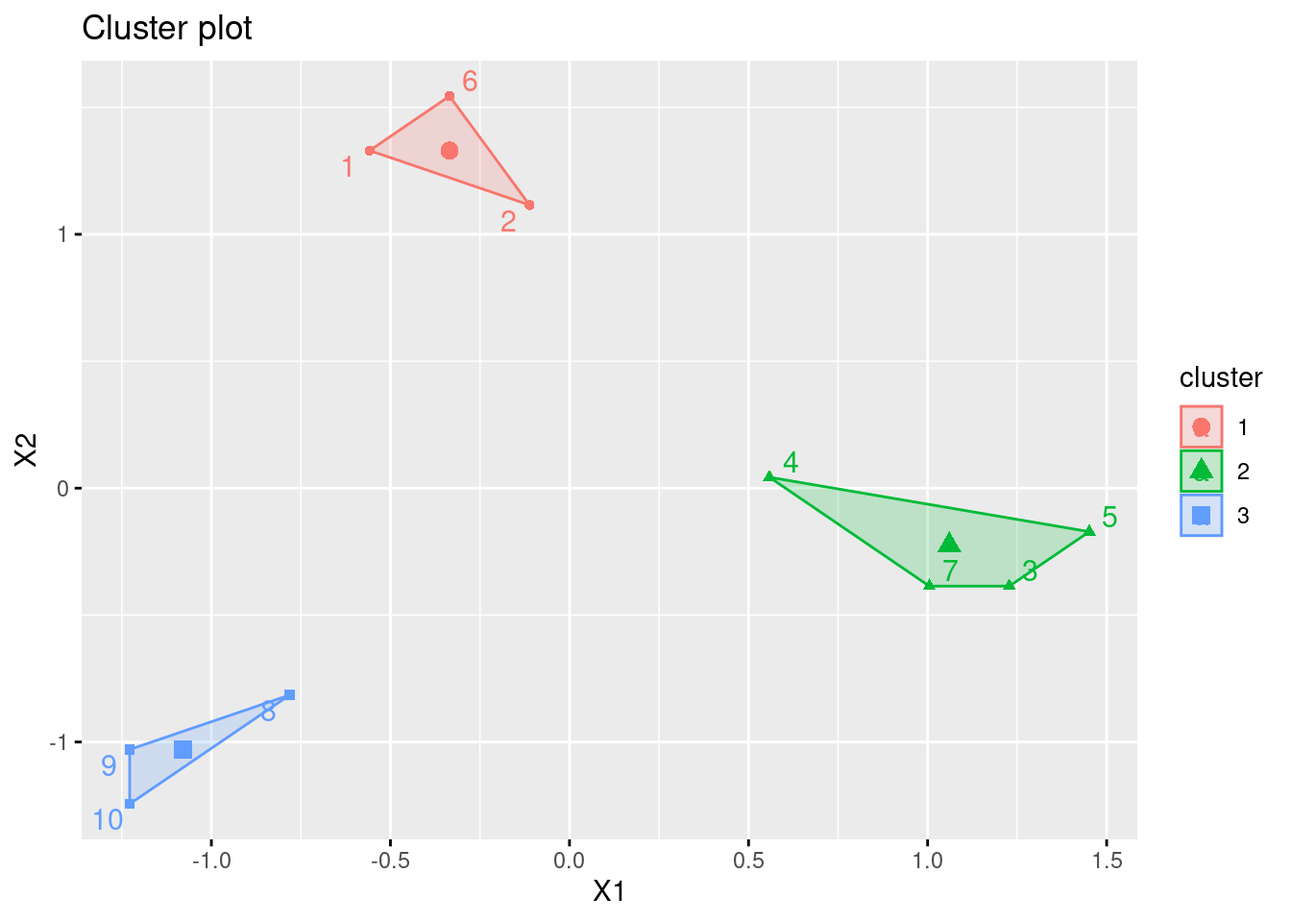
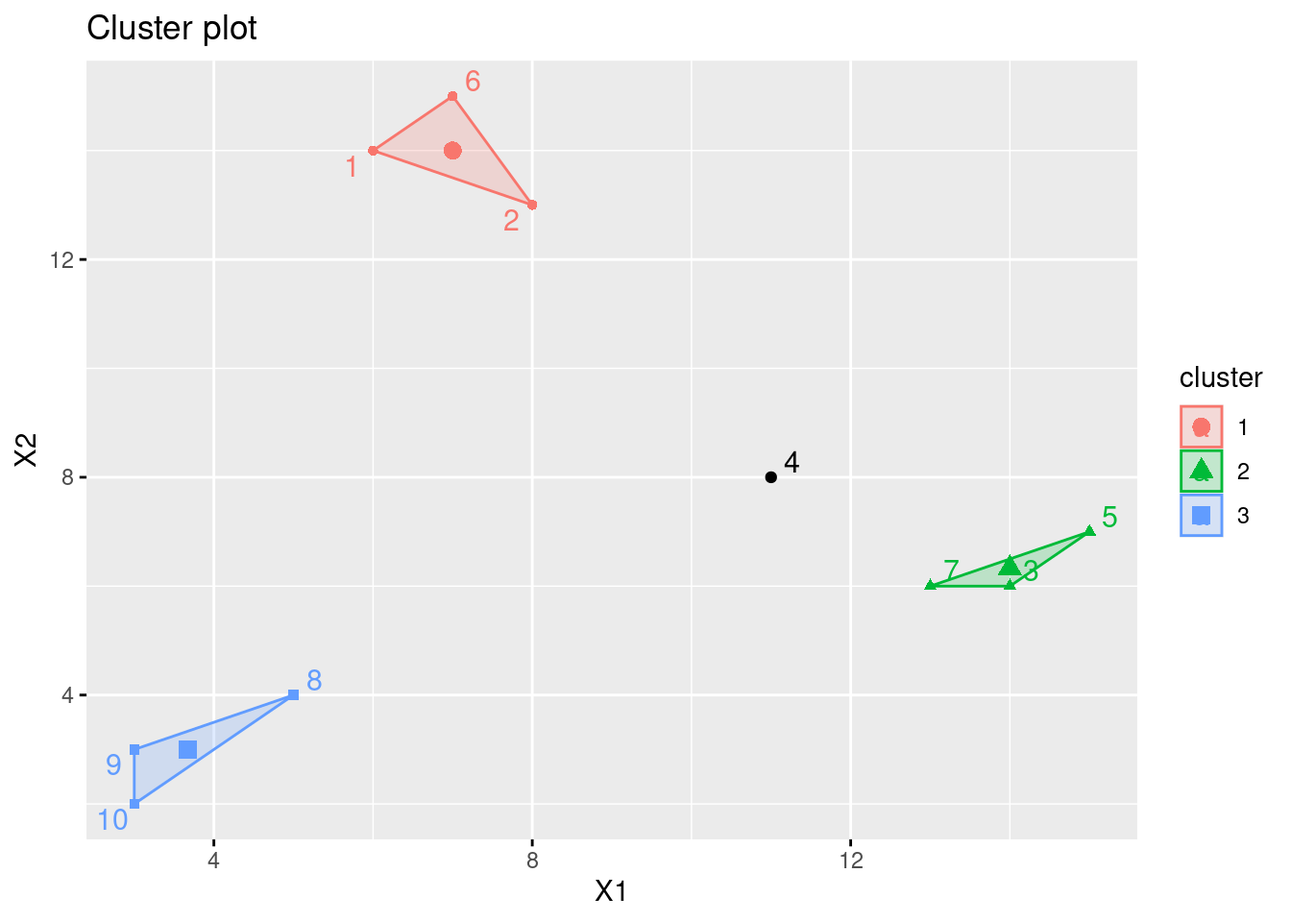
Built site for gh-pages

diff --git a/chapters/ch13_cluster_dbscan.html b/chapters/ch13_cluster_dbscan.html
@@ -192,62 +192,45 @@ pre > code.sourceCode > span > a:first-child::before { text-decoration: underlin
 
 </header>
 
-<p>데이터 읽기</p>
-<div class="cell">
-<div class="sourceCode cell-code" id="cb1"><pre class="sourceCode r code-with-copy"><code class="sourceCode r"><span id="cb1-1"><a href="#cb1-1" aria-hidden="true" tabindex="-1"></a>dat1 <span class="ot">&lt;-</span> <span class="fu">read.csv</span>(<span class="st">"data/ch12_dat1.csv"</span>)</span>
-<span id="cb1-2"><a href="#cb1-2" aria-hidden="true" tabindex="-1"></a>dat2 <span class="ot">&lt;-</span> dat1[, <span class="sc">-</span><span class="dv">1</span>]</span></code><button title="Copy to Clipboard" class="code-copy-button"><i class="bi"></i></button></pre></div>
-</div>
-<p>유클리디안 거리</p>
-<div class="cell">
-<div class="sourceCode cell-code" id="cb2"><pre class="sourceCode r code-with-copy"><code class="sourceCode r"><span id="cb2-1"><a href="#cb2-1" aria-hidden="true" tabindex="-1"></a>D1 <span class="ot">&lt;-</span> <span class="fu">dist</span>(dat2)</span>
-<span id="cb2-2"><a href="#cb2-2" aria-hidden="true" tabindex="-1"></a>D1 <span class="ot">&lt;-</span> <span class="fu">round</span>(D1, <span class="dv">2</span>)</span>
-<span id="cb2-3"><a href="#cb2-3" aria-hidden="true" tabindex="-1"></a>D1</span></code><button title="Copy to Clipboard" class="code-copy-button"><i class="bi"></i></button></pre></div>
-<div class="cell-output cell-output-stdout">
-<pre><code>       1     2     3     4     5     6     7     8     9
-2   2.24                                                
-3  11.31  9.22                                          
-4   7.81  5.83  3.61                                    
-5  11.40  9.22  1.41  4.12                              
-6   1.41  2.24 11.40  8.06 11.31                        
-7  10.63  8.60  1.00  2.83  2.24 10.82                  
-8  10.05  9.49  9.22  7.21 10.44 11.18  8.25            
-9  11.40 11.18 11.40  9.43 12.65 12.65 10.44  2.24      
-10 12.37 12.08 11.70 10.00 13.00 13.60 10.77  2.83  1.00</code></pre>
-</div>
-</div>
 <section id="예-13.1" class="level2">
 <h2 class="anchored" data-anchor-id="예-13.1">(예 13.1)</h2>
-<p>군집 수 결정</p>
+<section id="패키지-로드" class="level4">
+<h4 class="anchored" data-anchor-id="패키지-로드">패키지 로드</h4>
 <div class="cell">
-<div class="sourceCode cell-code" id="cb4"><pre class="sourceCode r code-with-copy"><code class="sourceCode r"><span id="cb4-1"><a href="#cb4-1" aria-hidden="true" tabindex="-1"></a><span class="fu">library</span>(factoextra)</span></code><button title="Copy to Clipboard" class="code-copy-button"><i class="bi"></i></button></pre></div>
+<div class="sourceCode cell-code" id="cb1"><pre class="sourceCode r code-with-copy"><code class="sourceCode r"><span id="cb1-1"><a href="#cb1-1" aria-hidden="true" tabindex="-1"></a><span class="fu">library</span>(factoextra)</span></code><button title="Copy to Clipboard" class="code-copy-button"><i class="bi"></i></button></pre></div>
 <div class="cell-output cell-output-stderr">
 <pre><code>Loading required package: ggplot2</code></pre>
 </div>
 <div class="cell-output cell-output-stderr">
 <pre><code>Welcome! Want to learn more? See two factoextra-related books at https://goo.gl/ve3WBa</code></pre>
 </div>
-<div class="sourceCode cell-code" id="cb7"><pre class="sourceCode r code-with-copy"><code class="sourceCode r"><span id="cb7-1"><a href="#cb7-1" aria-hidden="true" tabindex="-1"></a><span class="co"># may use scale data or raw data for the optimal k</span></span>
-<span id="cb7-2"><a href="#cb7-2" aria-hidden="true" tabindex="-1"></a>s_dat2 <span class="ot">&lt;-</span> <span class="fu">scale</span>(dat2)</span>
-<span id="cb7-3"><a href="#cb7-3" aria-hidden="true" tabindex="-1"></a></span>
-<span id="cb7-4"><a href="#cb7-4" aria-hidden="true" tabindex="-1"></a><span class="fu">fviz_nbclust</span>(s_dat2, kmeans, <span class="at">method =</span> <span class="st">"wss"</span>, <span class="at">k.max =</span> <span class="dv">5</span>) <span class="sc">+</span> </span>
-<span id="cb7-5"><a href="#cb7-5" aria-hidden="true" tabindex="-1"></a>  <span class="fu">geom_vline</span>(<span class="at">xintercept =</span> <span class="dv">3</span>, <span class="at">linetype =</span> <span class="dv">2</span>)</span></code><button title="Copy to Clipboard" class="code-copy-button"><i class="bi"></i></button></pre></div>
+</div>
+</section>
+<section id="데이터-로드" class="level4">
+<h4 class="anchored" data-anchor-id="데이터-로드">데이터 로드</h4>
+<div class="cell">
+<div class="sourceCode cell-code" id="cb4"><pre class="sourceCode r code-with-copy"><code class="sourceCode r"><span id="cb4-1"><a href="#cb4-1" aria-hidden="true" tabindex="-1"></a>dat1 <span class="ot">&lt;-</span> <span class="fu">read.csv</span>(<span class="st">"data/ch12_dat1.csv"</span>)</span>
+<span id="cb4-2"><a href="#cb4-2" aria-hidden="true" tabindex="-1"></a>dat2 <span class="ot">&lt;-</span> dat1[, <span class="sc">-</span><span class="dv">1</span>]</span></code><button title="Copy to Clipboard" class="code-copy-button"><i class="bi"></i></button></pre></div>
+</div>
+</section>
+<section id="군집-수-결정" class="level4">
+<h4 class="anchored" data-anchor-id="군집-수-결정">군집 수 결정</h4>
+<div class="cell">
+<div class="sourceCode cell-code" id="cb5"><pre class="sourceCode r code-with-copy"><code class="sourceCode r"><span id="cb5-1"><a href="#cb5-1" aria-hidden="true" tabindex="-1"></a><span class="co"># may use scale data or raw data for the optimal k</span></span>
+<span id="cb5-2"><a href="#cb5-2" aria-hidden="true" tabindex="-1"></a>s_dat2 <span class="ot">&lt;-</span> <span class="fu">scale</span>(dat2)</span>
+<span id="cb5-3"><a href="#cb5-3" aria-hidden="true" tabindex="-1"></a></span>
+<span id="cb5-4"><a href="#cb5-4" aria-hidden="true" tabindex="-1"></a><span class="fu">fviz_nbclust</span>(s_dat2, kmeans, <span class="at">method =</span> <span class="st">"silhouette"</span>, <span class="at">k.max =</span> <span class="dv">5</span>)</span></code><button title="Copy to Clipboard" class="code-copy-button"><i class="bi"></i></button></pre></div>
 <div class="cell-output-display">
 <p><img src="ch13_cluster_dbscan_files/figure-html/unnamed-chunk-3-1.png" class="img-fluid" width="672"></p>
 </div>
-<div class="sourceCode cell-code" id="cb8"><pre class="sourceCode r code-with-copy"><code class="sourceCode r"><span id="cb8-1"><a href="#cb8-1" aria-hidden="true" tabindex="-1"></a><span class="fu">fviz_nbclust</span>(s_dat2, kmeans, <span class="at">method =</span> <span class="st">"gap_stat"</span>, <span class="at">k.max =</span> <span class="dv">5</span>)</span></code><button title="Copy to Clipboard" class="code-copy-button"><i class="bi"></i></button></pre></div>
-<div class="cell-output-display">
-<p><img src="ch13_cluster_dbscan_files/figure-html/unnamed-chunk-3-2.png" class="img-fluid" width="672"></p>
 </div>
-<div class="sourceCode cell-code" id="cb9"><pre class="sourceCode r code-with-copy"><code class="sourceCode r"><span id="cb9-1"><a href="#cb9-1" aria-hidden="true" tabindex="-1"></a><span class="fu">fviz_nbclust</span>(s_dat2, kmeans, <span class="at">method =</span> <span class="st">"silhouette"</span>, <span class="at">k.max =</span> <span class="dv">5</span>)</span></code><button title="Copy to Clipboard" class="code-copy-button"><i class="bi"></i></button></pre></div>
-<div class="cell-output-display">
-<p><img src="ch13_cluster_dbscan_files/figure-html/unnamed-chunk-3-3.png" class="img-fluid" width="672"></p>
-</div>
-</div>
-<p>K-means 알고리즘</p>
+</section>
+<section id="k-means" class="level4">
+<h4 class="anchored" data-anchor-id="k-means">K-means</h4>
 <div class="cell">
-<div class="sourceCode cell-code" id="cb10"><pre class="sourceCode r code-with-copy"><code class="sourceCode r"><span id="cb10-1"><a href="#cb10-1" aria-hidden="true" tabindex="-1"></a><span class="fu">set.seed</span>(<span class="dv">123</span>)</span>
-<span id="cb10-2"><a href="#cb10-2" aria-hidden="true" tabindex="-1"></a>km <span class="ot">&lt;-</span> <span class="fu">kmeans</span>(dat2, <span class="dv">3</span>)</span>
-<span id="cb10-3"><a href="#cb10-3" aria-hidden="true" tabindex="-1"></a>km</span></code><button title="Copy to Clipboard" class="code-copy-button"><i class="bi"></i></button></pre></div>
+<div class="sourceCode cell-code" id="cb6"><pre class="sourceCode r code-with-copy"><code class="sourceCode r"><span id="cb6-1"><a href="#cb6-1" aria-hidden="true" tabindex="-1"></a><span class="fu">set.seed</span>(<span class="dv">123</span>)</span>
+<span id="cb6-2"><a href="#cb6-2" aria-hidden="true" tabindex="-1"></a>km <span class="ot">&lt;-</span> <span class="fu">kmeans</span>(dat2, <span class="dv">3</span>)</span>
+<span id="cb6-3"><a href="#cb6-3" aria-hidden="true" tabindex="-1"></a>km</span></code><button title="Copy to Clipboard" class="code-copy-button"><i class="bi"></i></button></pre></div>
 <div class="cell-output cell-output-stdout">
 <pre><code>K-means clustering with 3 clusters of sizes 4, 3, 3
 
@@ -270,13 +253,16 @@ Available components:
 [6] "betweenss"    "size"         "iter"         "ifault"      </code></pre>
 </div>
 </div>
-<p>시각화</p>
+</section>
+<section id="결과-시각화" class="level4">
+<h4 class="anchored" data-anchor-id="결과-시각화">결과 시각화</h4>
 <div class="cell">
-<div class="sourceCode cell-code" id="cb12"><pre class="sourceCode r code-with-copy"><code class="sourceCode r"><span id="cb12-1"><a href="#cb12-1" aria-hidden="true" tabindex="-1"></a><span class="fu">fviz_cluster</span>(km,</span>
-<span id="cb12-2"><a href="#cb12-2" aria-hidden="true" tabindex="-1"></a>  <span class="at">data =</span> dat2,</span>
-<span id="cb12-3"><a href="#cb12-3" aria-hidden="true" tabindex="-1"></a>  <span class="at">ellipse.type =</span> <span class="st">"convex"</span>,</span>
-<span id="cb12-4"><a href="#cb12-4" aria-hidden="true" tabindex="-1"></a>  <span class="at">repel =</span> <span class="cn">TRUE</span>, <span class="at">cex =</span> <span class="dv">3</span></span>
-<span id="cb12-5"><a href="#cb12-5" aria-hidden="true" tabindex="-1"></a>)</span></code><button title="Copy to Clipboard" class="code-copy-button"><i class="bi"></i></button></pre></div>
+<div class="sourceCode cell-code" id="cb8"><pre class="sourceCode r code-with-copy"><code class="sourceCode r"><span id="cb8-1"><a href="#cb8-1" aria-hidden="true" tabindex="-1"></a><span class="fu">fviz_cluster</span>(km,</span>
+<span id="cb8-2"><a href="#cb8-2" aria-hidden="true" tabindex="-1"></a>  <span class="at">data =</span> dat2,</span>
+<span id="cb8-3"><a href="#cb8-3" aria-hidden="true" tabindex="-1"></a>  <span class="at">ellipse.type =</span> <span class="st">"convex"</span>,</span>
+<span id="cb8-4"><a href="#cb8-4" aria-hidden="true" tabindex="-1"></a>  <span class="at">stand =</span> <span class="cn">FALSE</span>,</span>
+<span id="cb8-5"><a href="#cb8-5" aria-hidden="true" tabindex="-1"></a>  <span class="at">repel =</span> <span class="cn">TRUE</span>, <span class="at">cex =</span> <span class="dv">3</span></span>
+<span id="cb8-6"><a href="#cb8-6" aria-hidden="true" tabindex="-1"></a>)</span></code><button title="Copy to Clipboard" class="code-copy-button"><i class="bi"></i></button></pre></div>
 <div class="cell-output cell-output-stderr">
 <pre><code>Warning: Duplicated aesthetics after name standardisation: size</code></pre>
 </div>
@@ -285,27 +271,38 @@ Available components:
 </div>
 </div>
 </section>
+</section>
 <section id="예-13.3" class="level2">
 <h2 class="anchored" data-anchor-id="예-13.3">(예 13.3)</h2>
-<p>패지키 로드</p>
+<section id="패키지-로드-1" class="level4">
+<h4 class="anchored" data-anchor-id="패키지-로드-1">패키지 로드</h4>
 <div class="cell">
-<div class="sourceCode cell-code" id="cb14"><pre class="sourceCode r code-with-copy"><code class="sourceCode r"><span id="cb14-1"><a href="#cb14-1" aria-hidden="true" tabindex="-1"></a><span class="fu">library</span>(<span class="st">"cluster"</span>)</span></code><button title="Copy to Clipboard" class="code-copy-button"><i class="bi"></i></button></pre></div>
+<div class="sourceCode cell-code" id="cb10"><pre class="sourceCode r code-with-copy"><code class="sourceCode r"><span id="cb10-1"><a href="#cb10-1" aria-hidden="true" tabindex="-1"></a><span class="fu">library</span>(cluster)</span>
+<span id="cb10-2"><a href="#cb10-2" aria-hidden="true" tabindex="-1"></a><span class="fu">library</span>(factoextra)</span></code><button title="Copy to Clipboard" class="code-copy-button"><i class="bi"></i></button></pre></div>
 </div>
-<p>PAM 알고리즘</p>
+</section>
+<section id="데이터-로드-1" class="level4">
+<h4 class="anchored" data-anchor-id="데이터-로드-1">데이터 로드</h4>
 <div class="cell">
-<div class="sourceCode cell-code" id="cb15"><pre class="sourceCode r code-with-copy"><code class="sourceCode r"><span id="cb15-1"><a href="#cb15-1" aria-hidden="true" tabindex="-1"></a>pam_out <span class="ot">&lt;-</span> <span class="fu">pam</span>(dat2, <span class="dv">3</span>)</span>
-<span id="cb15-2"><a href="#cb15-2" aria-hidden="true" tabindex="-1"></a>pam_out</span></code><button title="Copy to Clipboard" class="code-copy-button"><i class="bi"></i></button></pre></div>
+<div class="sourceCode cell-code" id="cb11"><pre class="sourceCode r code-with-copy"><code class="sourceCode r"><span id="cb11-1"><a href="#cb11-1" aria-hidden="true" tabindex="-1"></a>dat1 <span class="ot">&lt;-</span> <span class="fu">read.csv</span>(<span class="st">"data/ch13_pam.csv"</span>)</span>
+<span id="cb11-2"><a href="#cb11-2" aria-hidden="true" tabindex="-1"></a>dat2 <span class="ot">&lt;-</span> dat1[, <span class="sc">-</span><span class="dv">1</span>]</span></code><button title="Copy to Clipboard" class="code-copy-button"><i class="bi"></i></button></pre></div>
+</div>
+</section>
+<section id="pam" class="level4">
+<h4 class="anchored" data-anchor-id="pam">PAM</h4>
+<div class="cell">
+<div class="sourceCode cell-code" id="cb12"><pre class="sourceCode r code-with-copy"><code class="sourceCode r"><span id="cb12-1"><a href="#cb12-1" aria-hidden="true" tabindex="-1"></a>pam_out <span class="ot">&lt;-</span> <span class="fu">pam</span>(dat2, <span class="dv">2</span>)</span>
+<span id="cb12-2"><a href="#cb12-2" aria-hidden="true" tabindex="-1"></a>pam_out</span></code><button title="Copy to Clipboard" class="code-copy-button"><i class="bi"></i></button></pre></div>
 <div class="cell-output cell-output-stdout">
 <pre><code>Medoids:
-     ID X1 X2
-[1,]  6  7 15
-[2,]  3 14  6
-[3,]  9  3  3
+     ID experience hours
+[1,]  2          5     4
+[2,]  5         14     6
 Clustering vector:
- [1] 1 1 2 2 2 1 2 3 3 3
+[1] 1 1 2 2 2 2
 Objective function:
    build     swap 
-1.744343 1.290611 
+1.383427 1.375972 
 
 Available components:
  [1] "medoids"    "id.med"     "clustering" "objective"  "isolation" 
@@ -314,128 +311,82 @@ Available components:
 </div>
 <p>각 군집에 속한 객체 수</p>
 <div class="cell">
-<div class="sourceCode cell-code" id="cb17"><pre class="sourceCode r code-with-copy"><code class="sourceCode r"><span id="cb17-1"><a href="#cb17-1" aria-hidden="true" tabindex="-1"></a><span class="fu">table</span>(pam_out<span class="sc">$</span>clustering)</span></code><button title="Copy to Clipboard" class="code-copy-button"><i class="bi"></i></button></pre></div>
+<div class="sourceCode cell-code" id="cb14"><pre class="sourceCode r code-with-copy"><code class="sourceCode r"><span id="cb14-1"><a href="#cb14-1" aria-hidden="true" tabindex="-1"></a><span class="fu">table</span>(pam_out<span class="sc">$</span>clustering)</span></code><button title="Copy to Clipboard" class="code-copy-button"><i class="bi"></i></button></pre></div>
 <div class="cell-output cell-output-stdout">
 <pre><code>
-1 2 3 
-3 4 3 </code></pre>
-</div>
-</div>
-<p>시각화</p>
-<div class="cell">
-<div class="sourceCode cell-code" id="cb19"><pre class="sourceCode r code-with-copy"><code class="sourceCode r"><span id="cb19-1"><a href="#cb19-1" aria-hidden="true" tabindex="-1"></a><span class="fu">fviz_cluster</span>(pam_out,</span>
-<span id="cb19-2"><a href="#cb19-2" aria-hidden="true" tabindex="-1"></a>  <span class="at">data =</span> dat2,</span>
-<span id="cb19-3"><a href="#cb19-3" aria-hidden="true" tabindex="-1"></a>  <span class="at">ellipse.type =</span> <span class="st">"convex"</span>,</span>
-<span id="cb19-4"><a href="#cb19-4" aria-hidden="true" tabindex="-1"></a>  <span class="at">repel =</span> <span class="cn">TRUE</span></span>
-<span id="cb19-5"><a href="#cb19-5" aria-hidden="true" tabindex="-1"></a>)</span></code><button title="Copy to Clipboard" class="code-copy-button"><i class="bi"></i></button></pre></div>
-<div class="cell-output-display">
-<p><img src="ch13_cluster_dbscan_files/figure-html/unnamed-chunk-9-1.png" class="img-fluid" width="672"></p>
-</div>
-</div>
-<p>실루엣 계산</p>
-<div class="cell">
-<div class="sourceCode cell-code" id="cb20"><pre class="sourceCode r code-with-copy"><code class="sourceCode r"><span id="cb20-1"><a href="#cb20-1" aria-hidden="true" tabindex="-1"></a>sil_pam <span class="ot">&lt;-</span> <span class="fu">silhouette</span>(pam_out<span class="sc">$</span>clustering, <span class="fu">dist</span>(dat1))</span>
-<span id="cb20-2"><a href="#cb20-2" aria-hidden="true" tabindex="-1"></a>sil_pam</span></code><button title="Copy to Clipboard" class="code-copy-button"><i class="bi"></i></button></pre></div>
-<div class="cell-output cell-output-stdout">
-<pre><code>      cluster neighbor sil_width
- [1,]       1        2 0.6536149
- [2,]       1        2 0.5991214
- [3,]       2        1 0.6831509
- [4,]       2        1 0.4698487
- [5,]       2        1 0.7075065
- [6,]       1        2 0.5378350
- [7,]       2        3 0.6265840
- [8,]       3        2 0.6879676
- [9,]       3        2 0.8371732
-[10,]       3        2 0.8064499
-attr(,"Ordered")
-[1] FALSE
-attr(,"call")
-silhouette.default(x = pam_out$clustering, dist = dist(dat1))
-attr(,"class")
-[1] "silhouette"</code></pre>
-</div>
-<div class="sourceCode cell-code" id="cb22"><pre class="sourceCode r code-with-copy"><code class="sourceCode r"><span id="cb22-1"><a href="#cb22-1" aria-hidden="true" tabindex="-1"></a><span class="fu">mean</span>(sil_pam[, <span class="dv">3</span>])</span></code><button title="Copy to Clipboard" class="code-copy-button"><i class="bi"></i></button></pre></div>
-<div class="cell-output cell-output-stdout">
-<pre><code>[1] 0.6609252</code></pre>
-</div>
-</div>
-<p>실루엣 시각화</p>
-<div class="cell">
-<div class="sourceCode cell-code" id="cb24"><pre class="sourceCode r code-with-copy"><code class="sourceCode r"><span id="cb24-1"><a href="#cb24-1" aria-hidden="true" tabindex="-1"></a><span class="fu">library</span>(factoextra)</span>
-<span id="cb24-2"><a href="#cb24-2" aria-hidden="true" tabindex="-1"></a><span class="fu">fviz_silhouette</span>(sil_pam)</span></code><button title="Copy to Clipboard" class="code-copy-button"><i class="bi"></i></button></pre></div>
-<div class="cell-output cell-output-stdout">
-<pre><code>  cluster size ave.sil.width
-1       1    3          0.60
-2       2    4          0.62
-3       3    3          0.78</code></pre>
-</div>
-<div class="cell-output-display">
-<p><img src="ch13_cluster_dbscan_files/figure-html/unnamed-chunk-11-1.png" class="img-fluid" width="672"></p>
+1 2 
+2 4 </code></pre>
 </div>
 </div>
 </section>
+<section id="결과-시각화-1" class="level4">
+<h4 class="anchored" data-anchor-id="결과-시각화-1">결과 시각화</h4>
+<div class="cell">
+<div class="sourceCode cell-code" id="cb16"><pre class="sourceCode r code-with-copy"><code class="sourceCode r"><span id="cb16-1"><a href="#cb16-1" aria-hidden="true" tabindex="-1"></a><span class="fu">fviz_cluster</span>(pam_out,</span>
+<span id="cb16-2"><a href="#cb16-2" aria-hidden="true" tabindex="-1"></a>  <span class="at">data =</span> dat2,</span>
+<span id="cb16-3"><a href="#cb16-3" aria-hidden="true" tabindex="-1"></a>  <span class="at">ellipse.type =</span> <span class="st">"convex"</span>,</span>
+<span id="cb16-4"><a href="#cb16-4" aria-hidden="true" tabindex="-1"></a>  <span class="at">stand =</span> <span class="cn">FALSE</span>,</span>
+<span id="cb16-5"><a href="#cb16-5" aria-hidden="true" tabindex="-1"></a>  <span class="at">repel =</span> <span class="cn">TRUE</span></span>
+<span id="cb16-6"><a href="#cb16-6" aria-hidden="true" tabindex="-1"></a>)</span></code><button title="Copy to Clipboard" class="code-copy-button"><i class="bi"></i></button></pre></div>
+<div class="cell-output-display">
+<p><img src="ch13_cluster_dbscan_files/figure-html/unnamed-chunk-10-1.png" class="img-fluid" width="672"></p>
+</div>
+</div>
+</section>
+</section>
 <section id="예-13.8" class="level2">
 <h2 class="anchored" data-anchor-id="예-13.8">(예 13.8)</h2>
-<p>패키지 로드</p>
+<section id="패키지-로드-2" class="level4">
+<h4 class="anchored" data-anchor-id="패키지-로드-2">패키지 로드</h4>
 <div class="cell">
-<div class="sourceCode cell-code" id="cb26"><pre class="sourceCode r code-with-copy"><code class="sourceCode r"><span id="cb26-1"><a href="#cb26-1" aria-hidden="true" tabindex="-1"></a><span class="fu">library</span>(fpc)</span></code><button title="Copy to Clipboard" class="code-copy-button"><i class="bi"></i></button></pre></div>
+<div class="sourceCode cell-code" id="cb17"><pre class="sourceCode r code-with-copy"><code class="sourceCode r"><span id="cb17-1"><a href="#cb17-1" aria-hidden="true" tabindex="-1"></a><span class="fu">library</span>(fpc)</span>
+<span id="cb17-2"><a href="#cb17-2" aria-hidden="true" tabindex="-1"></a><span class="fu">library</span>(factoextra)</span></code><button title="Copy to Clipboard" class="code-copy-button"><i class="bi"></i></button></pre></div>
 </div>
-<p>디비스캔</p>
+</section>
+<section id="데이터-로드-2" class="level4">
+<h4 class="anchored" data-anchor-id="데이터-로드-2">데이터 로드</h4>
 <div class="cell">
-<div class="sourceCode cell-code" id="cb27"><pre class="sourceCode r code-with-copy"><code class="sourceCode r"><span id="cb27-1"><a href="#cb27-1" aria-hidden="true" tabindex="-1"></a>db <span class="ot">&lt;-</span> <span class="fu">dbscan</span>(dat2, <span class="at">eps =</span> <span class="dv">3</span>, <span class="at">MinPts =</span> <span class="dv">3</span>)</span>
-<span id="cb27-2"><a href="#cb27-2" aria-hidden="true" tabindex="-1"></a>db</span></code><button title="Copy to Clipboard" class="code-copy-button"><i class="bi"></i></button></pre></div>
+<div class="sourceCode cell-code" id="cb18"><pre class="sourceCode r code-with-copy"><code class="sourceCode r"><span id="cb18-1"><a href="#cb18-1" aria-hidden="true" tabindex="-1"></a>dat1 <span class="ot">&lt;-</span> <span class="fu">read.csv</span>(<span class="st">"data/ch12_dat1.csv"</span>)</span>
+<span id="cb18-2"><a href="#cb18-2" aria-hidden="true" tabindex="-1"></a>dat2 <span class="ot">&lt;-</span> dat1[, <span class="sc">-</span><span class="dv">1</span>]</span></code><button title="Copy to Clipboard" class="code-copy-button"><i class="bi"></i></button></pre></div>
+</div>
+</section>
+<section id="디비스캔" class="level4">
+<h4 class="anchored" data-anchor-id="디비스캔">디비스캔</h4>
+<div class="cell">
+<div class="sourceCode cell-code" id="cb19"><pre class="sourceCode r code-with-copy"><code class="sourceCode r"><span id="cb19-1"><a href="#cb19-1" aria-hidden="true" tabindex="-1"></a>db <span class="ot">&lt;-</span> <span class="fu">dbscan</span>(dat2, <span class="at">eps =</span> <span class="fl">2.5</span>, <span class="at">MinPts =</span> <span class="dv">3</span>)</span>
+<span id="cb19-2"><a href="#cb19-2" aria-hidden="true" tabindex="-1"></a>db</span></code><button title="Copy to Clipboard" class="code-copy-button"><i class="bi"></i></button></pre></div>
 <div class="cell-output cell-output-stdout">
-<pre><code>dbscan Pts=10 MinPts=3 eps=3
-       1 2 3
-border 0 1 0
-seed   3 3 3
-total  3 4 3</code></pre>
+<pre><code>dbscan Pts=10 MinPts=3 eps=2.5
+       0 1 2 3
+border 1 0 0 2
+seed   0 3 3 1
+total  1 3 3 3</code></pre>
 </div>
 </div>
 <p>군집 결과</p>
 <div class="cell">
-<div class="sourceCode cell-code" id="cb29"><pre class="sourceCode r code-with-copy"><code class="sourceCode r"><span id="cb29-1"><a href="#cb29-1" aria-hidden="true" tabindex="-1"></a>db<span class="sc">$</span>cluster</span></code><button title="Copy to Clipboard" class="code-copy-button"><i class="bi"></i></button></pre></div>
+<div class="sourceCode cell-code" id="cb21"><pre class="sourceCode r code-with-copy"><code class="sourceCode r"><span id="cb21-1"><a href="#cb21-1" aria-hidden="true" tabindex="-1"></a>db<span class="sc">$</span>cluster</span></code><button title="Copy to Clipboard" class="code-copy-button"><i class="bi"></i></button></pre></div>
 <div class="cell-output cell-output-stdout">
-<pre><code> [1] 1 1 2 2 2 1 2 3 3 3</code></pre>
+<pre><code> [1] 1 1 2 0 2 1 2 3 3 3</code></pre>
 </div>
 </div>
-<p>시각화</p>
+</section>
+<section id="결과-시각화-2" class="level4">
+<h4 class="anchored" data-anchor-id="결과-시각화-2">결과 시각화</h4>
 <div class="cell">
-<div class="sourceCode cell-code" id="cb31"><pre class="sourceCode r code-with-copy"><code class="sourceCode r"><span id="cb31-1"><a href="#cb31-1" aria-hidden="true" tabindex="-1"></a><span class="fu">fviz_cluster</span>(db,</span>
-<span id="cb31-2"><a href="#cb31-2" aria-hidden="true" tabindex="-1"></a>  <span class="at">data =</span> dat2,</span>
-<span id="cb31-3"><a href="#cb31-3" aria-hidden="true" tabindex="-1"></a>  <span class="at">ellipse.type =</span> <span class="st">"convex"</span>,</span>
-<span id="cb31-4"><a href="#cb31-4" aria-hidden="true" tabindex="-1"></a>  <span class="at">repel =</span> <span class="cn">TRUE</span></span>
-<span id="cb31-5"><a href="#cb31-5" aria-hidden="true" tabindex="-1"></a>)</span></code><button title="Copy to Clipboard" class="code-copy-button"><i class="bi"></i></button></pre></div>
+<div class="sourceCode cell-code" id="cb23"><pre class="sourceCode r code-with-copy"><code class="sourceCode r"><span id="cb23-1"><a href="#cb23-1" aria-hidden="true" tabindex="-1"></a><span class="fu">fviz_cluster</span>(db,</span>
+<span id="cb23-2"><a href="#cb23-2" aria-hidden="true" tabindex="-1"></a>  <span class="at">data =</span> dat2,</span>
+<span id="cb23-3"><a href="#cb23-3" aria-hidden="true" tabindex="-1"></a>  <span class="at">ellipse.type =</span> <span class="st">"convex"</span>,</span>
+<span id="cb23-4"><a href="#cb23-4" aria-hidden="true" tabindex="-1"></a>  <span class="at">stand =</span> <span class="cn">FALSE</span>,</span>
+<span id="cb23-5"><a href="#cb23-5" aria-hidden="true" tabindex="-1"></a>  <span class="at">repel =</span> <span class="cn">TRUE</span></span>
+<span id="cb23-6"><a href="#cb23-6" aria-hidden="true" tabindex="-1"></a>)</span></code><button title="Copy to Clipboard" class="code-copy-button"><i class="bi"></i></button></pre></div>
 <div class="cell-output-display">
 <p><img src="ch13_cluster_dbscan_files/figure-html/unnamed-chunk-15-1.png" class="img-fluid" width="672"></p>
 </div>
 </div>
-<p>실루엣 계산</p>
-<div class="cell">
-<div class="sourceCode cell-code" id="cb32"><pre class="sourceCode r code-with-copy"><code class="sourceCode r"><span id="cb32-1"><a href="#cb32-1" aria-hidden="true" tabindex="-1"></a><span class="fu">library</span>(cluster)</span>
-<span id="cb32-2"><a href="#cb32-2" aria-hidden="true" tabindex="-1"></a>sil_db <span class="ot">&lt;-</span> <span class="fu">silhouette</span>(db<span class="sc">$</span>cluster, <span class="fu">dist</span>(dat1))</span>
-<span id="cb32-3"><a href="#cb32-3" aria-hidden="true" tabindex="-1"></a><span class="fu">mean</span>(sil_db[, <span class="dv">3</span>])</span></code><button title="Copy to Clipboard" class="code-copy-button"><i class="bi"></i></button></pre></div>
-<div class="cell-output cell-output-stdout">
-<pre><code>[1] 0.6609252</code></pre>
-</div>
-</div>
-<p>실루엣 시각화</p>
-<div class="cell">
-<div class="sourceCode cell-code" id="cb34"><pre class="sourceCode r code-with-copy"><code class="sourceCode r"><span id="cb34-1"><a href="#cb34-1" aria-hidden="true" tabindex="-1"></a><span class="fu">library</span>(factoextra)</span>
-<span id="cb34-2"><a href="#cb34-2" aria-hidden="true" tabindex="-1"></a><span class="fu">fviz_silhouette</span>(sil_db)</span></code><button title="Copy to Clipboard" class="code-copy-button"><i class="bi"></i></button></pre></div>
-<div class="cell-output cell-output-stdout">
-<pre><code>  cluster size ave.sil.width
-1       1    3          0.60
-2       2    4          0.62
-3       3    3          0.78</code></pre>
-</div>
-<div class="cell-output-display">
-<p><img src="ch13_cluster_dbscan_files/figure-html/unnamed-chunk-17-1.png" class="img-fluid" width="672"></p>
-</div>
-</div>
 
 
+</section>
 </section>
 
 </main> <!-- /main -->

diff --git a/index.html b/index.html
@@ -7,7 +7,7 @@
 <meta name="viewport" content="width=device-width, initial-scale=1.0, user-scalable=yes">
 
 <meta name="author" content="전치혁, 이혜선, 이종석, 이영록">
-<meta name="dcterms.date" content="2024-01-19">
+<meta name="dcterms.date" content="2024-01-22">
 
 <title>데이터마이닝 기법과 응용: R 예제</title>
 <style>
@@ -160,7 +160,7 @@ ul.task-list li input[type="checkbox"] {
     <div>
     <div class="quarto-title-meta-heading">Published</div>
     <div class="quarto-title-meta-contents">
-      <p class="date">January 19, 2024</p>
+      <p class="date">January 22, 2024</p>
     </div>
   </div>
   
